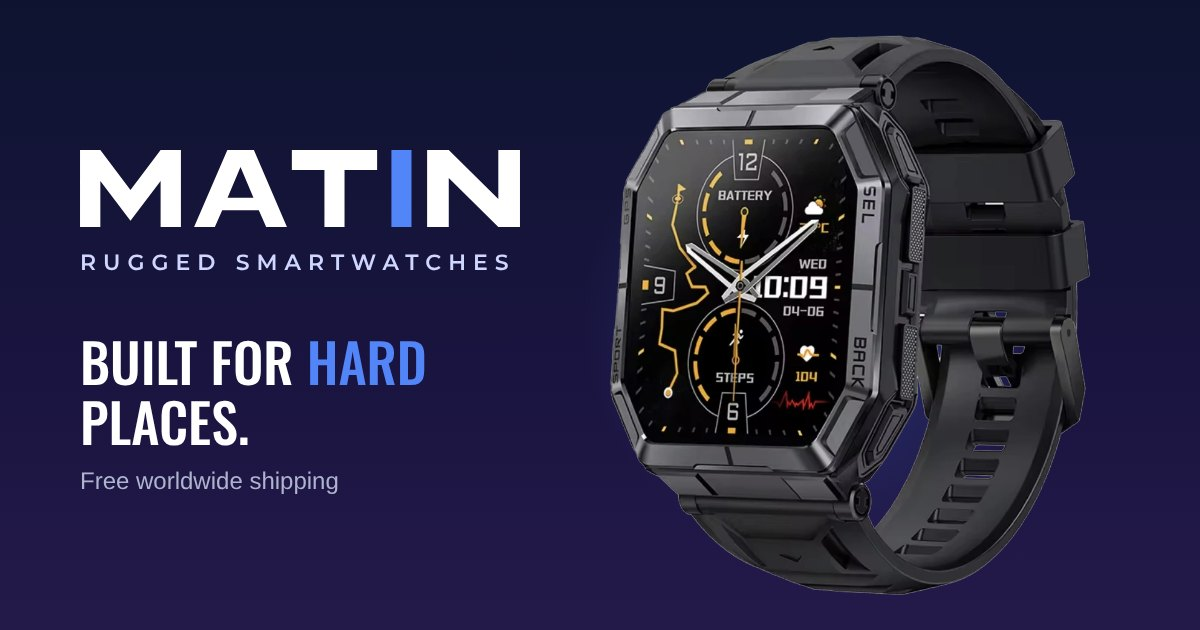
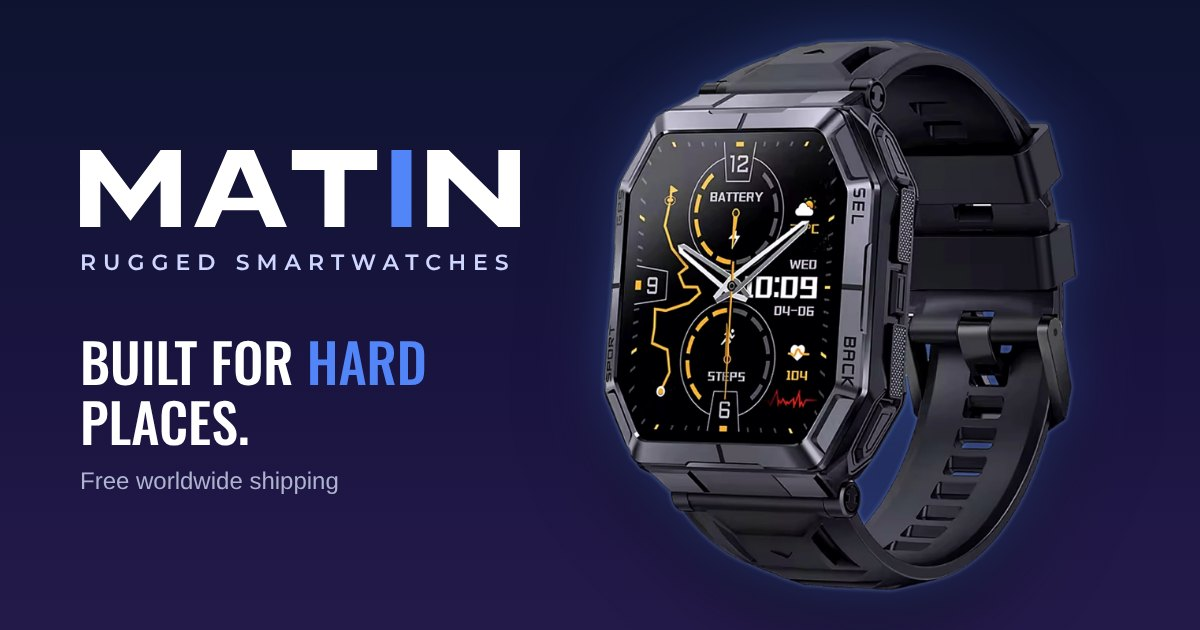
Polish the Sentinel photo: cleaner cut-out, studio glow and shadow
- Re-cut at 2x with choked, decontaminated edges (no white fringe)
- Light sharpening and contrast, slight cool tone for the navy page
- Soft blue/teal light behind real product photos, rim light and drop shadow
- Share pictures regenerated with the new photo

Claude-Session: https://claude.ai/code/session_0131Ey9WtYzRJWk6AUwA1R6u

Changed region(s): [[0.4933, 0.0302, 0.925, 0.9651], [0.6167, 0.8746, 0.6475, 0.9048], [0.5858, 0.8444, 0.6167, 0.8746]]

diff --git a/components/ProductImage.tsx b/components/ProductImage.tsx
@@ -9,17 +9,22 @@ export default function ProductImage({ product, index = 0, priority, sizes, alt 
   const src = product.images[index];
   if (src) {
     return (
-      <Image
-        src={src}
-        alt={alt ?? product.imageAlts?.[index] ?? `${product.name} rugged smartwatch`}
-        fill
-        priority={priority}
-        fetchPriority={priority ? "high" : undefined}
-        // Above-the-fold photos use slightly lighter files so the page paints sooner.
-        quality={priority ? 60 : 75}
-        sizes={sizes ?? "(max-width: 768px) 100vw, 33vw"}
-        style={{ objectFit: "contain" }}
-      />
+      <>
+        {/* Soft blue/teal light behind the watch so it glows on the dark page. */}
+        <span className="photo-glow" aria-hidden="true" />
+        <Image
+          className="product-photo"
+          src={src}
+          alt={alt ?? product.imageAlts?.[index] ?? `${product.name} rugged smartwatch`}
+          fill
+          priority={priority}
+          fetchPriority={priority ? "high" : undefined}
+          // Above-the-fold photos use slightly lighter files so the page paints sooner.
+          quality={priority ? 60 : 75}
+          sizes={sizes ?? "(max-width: 768px) 100vw, 33vw"}
+          style={{ objectFit: "contain" }}
+        />
+      </>
     );
   }
   return <WatchArt {...product.art} />;

diff --git a/app/globals.css b/app/globals.css
@@ -1192,3 +1192,19 @@ h3 {
 .feature-list {
   grid-template-columns: repeat(auto-fill, minmax(150px, 1fr));
 }
+
+/* Real product photos: soft studio light behind, shadow and a faint blue rim */
+.photo-glow {
+  position: absolute;
+  inset: 4%;
+  border-radius: 50%;
+  background:
+    radial-gradient(closest-side at 46% 44%, rgba(82, 133, 247, 0.5), rgba(82, 133, 247, 0.16) 55%, transparent),
+    radial-gradient(closest-side at 64% 72%, rgba(95, 214, 208, 0.22), transparent 75%);
+  pointer-events: none;
+}
+
+.product-photo {
+  filter: drop-shadow(0 0 1.5px rgba(160, 190, 255, 0.55)) drop-shadow(0 0 22px rgba(82, 133, 247, 0.3))
+    drop-shadow(0 26px 24px rgba(0, 0, 0, 0.6));
+}
